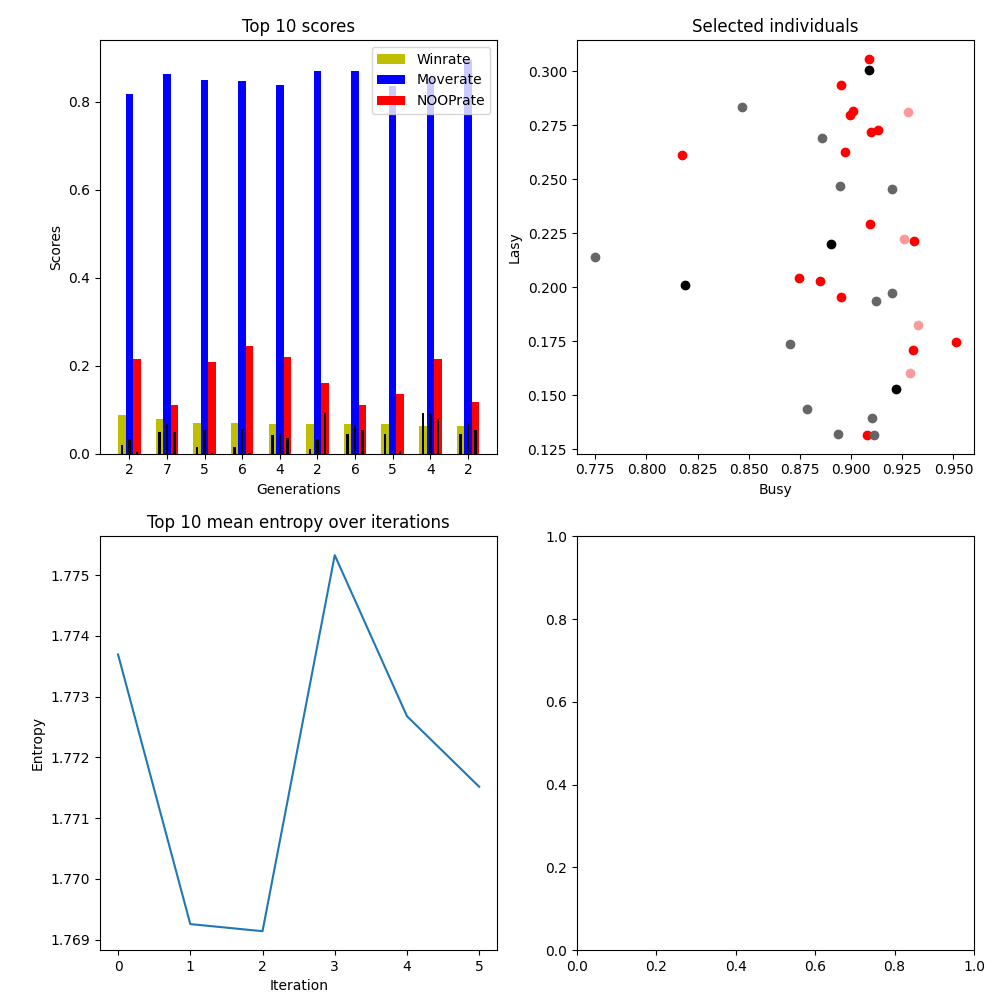
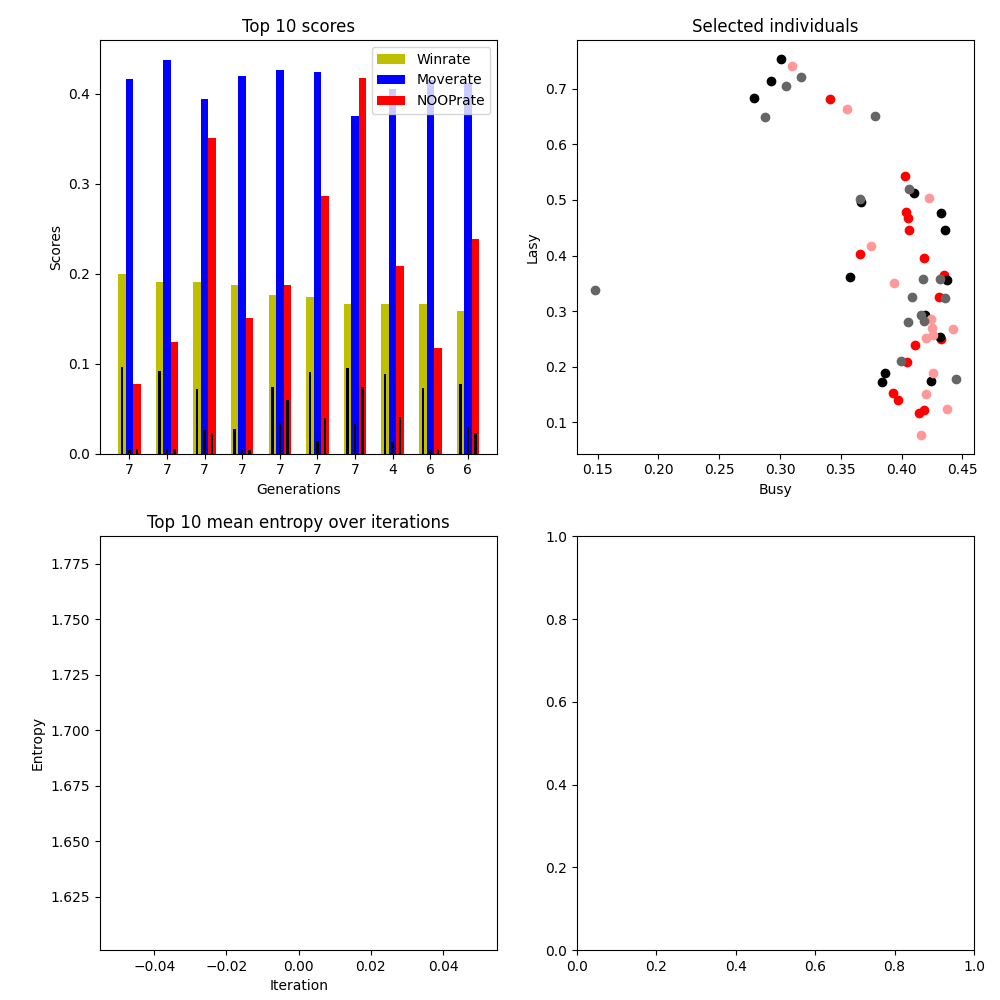
3-16

diff --git a/optimization.py b/optimization.py
@@ -57,32 +57,25 @@ def nd_sort(scores, n_objectives ):
 
 def cd_select(scores, indexes, size):
     indexes = np.array(indexes)
-    distances_left = [0] * len(indexes)
-    distances_right = [0] * len(indexes)
-    distances = [0] * len(indexes)
+    distances = [np.inf] * len(indexes)
+    distances_2 = [np.inf] * len(indexes)
     comparing_score = scores[:, :, -1]
 
     for i, index in enumerate(indexes):
         for index2 in indexes[:index:]:
             dist = distance(comparing_score[:, index], comparing_score[:, index2])
-            if dist > 0 and dist > distances_left[i]:
-                distances_left[i] = dist
-            elif dist < 0 and dist < distances_right[i]:
-                distances_right[i] = dist
-        distances[i] = distances_left[i] - distances_right[i]
+            if dist < distances[i]:
+                distances_2[i] = distances[i]
+                distances[i] = dist
+            elif dist < distances_2[i]:
+                distances_2[i] = dist
+        distances[i] += distances_2[i]
 
     return indexes[np.argsort(np.array(distances))][-size:]
 
 
 def distance(x1, x2):
-    d = 0
-    for i in range(len(x1)):
-        d += (x2[i] - x1[i]) * (-1)**i
-    return d
-
-
-
-
+    return np.sum(np.absolute(x2 - x1))
 
 
 

diff --git a/evolution_server.py b/evolution_server.py
@@ -26,7 +26,7 @@ import socket
 class EvolutionServer:
 
     def __init__(self, ID, env_id='Pong-ram-v0', collector_ip=None, traj_length=128, batch_size=1, max_train=8,
-                 early_stop=7, round_length=100, eval_length=5000, subprocess=True, mutation_rate=0.5):
+                 early_stop=7, round_length=200, eval_length=5000, subprocess=True, mutation_rate=0.5):
         if collector_ip is None:
             self.ip = socket.gethostbyname(socket.gethostname())
         else:
@@ -249,8 +249,8 @@ class EvolutionServer:
             self.trajectory['state'][0, frame_count] = observation
             self.trajectory['action'][0, frame_count] = action
 
-            aux_scale = 0.003
-            self.trajectory['rew'][0, frame_count] = reward * player.reward_weight[0] +\
+            aux_scale = 0.02
+            self.trajectory['rew'][0, frame_count] = 10 * reward * player.reward_weight[0] +\
                                                      aux_scale * moved * player.reward_weight[1] +\
                                                      aux_scale * act * player.reward_weight[2]
             self.trajectory['base_rew'][0, frame_count] = reward

diff --git a/collector.py b/collector.py
@@ -172,7 +172,9 @@ class Collector:
 
         try:
             if not self.client_mode:
-                self.serializer.dump(self.population, 'run--' + str(datetime.now()) + '--' + str(self.generation-1))
+                ckpt_name = '--'.join([str(self.population.size), str(self.generation-1),
+                                       str(datetime.now()).strip(' ')])
+                self.serializer.dump(self.population, ckpt_name)
         except Exception as e:
             print('serializer failed :', e)
 
@@ -187,7 +189,7 @@ class Collector:
 
         else:
             if self.start_from is not None:
-                self.generation = int(self.start_from.split('--')[-1].split('.')[0])
+                self.generation = int(self.start_from.split('--')[1])
                 self.population = self.serializer.load(self.start_from)
             else:
                 pass

diff --git a/plotting.py b/plotting.py
@@ -221,7 +221,7 @@ class PlotterV2:
                 else:
                     color = 'r' if index in self.selected else 'k'
 
-            opti.plot(*(0 * self.scores[:, index, 0] +
+            opti.plot(*(0.01 * self.scores[:, index, 0] +
                         self.scores[:, index, 1]), marker='o', color=color)
         opti.set_ylabel('Lasy')
         opti.set_xlabel('Busy')

diff --git a/env_utils.py b/env_utils.py
@@ -41,7 +41,7 @@ class Pong(dict):
         return action_id in [0]  # no act means no op or no move ?
 
 
-name2class = {'Pong-ramNoFrameskip-v4': Pong
-              }
+name2class = {'Pong-ramNoFrameskip-v4': Pong,
+              'Pong-ram-v0': Pong}
 
 
